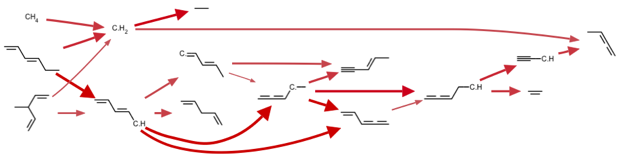
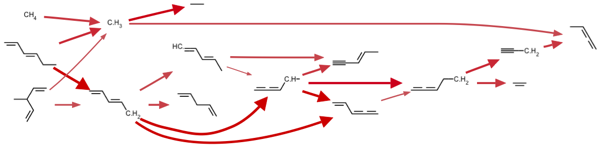
new flux diagram and caption

diff --git a/source/_templates/homepage.html b/source/_templates/homepage.html
@@ -29,7 +29,7 @@ kinetic models composed of elementary chemical reaction steps using a general un
 
 <div class="figure">
 <img id="fluxdiagram" src="{{ pathto('_static/images/HXD13flux-small.png', 1) }}" />
-<p class="caption">Carbon flux diagram for the pyrolysis of 1,3-hexadiene, an example model generated with RMG 3.0</p>
+<p class="caption">Flux diagram for the pyrolysis of 1,3-hexadiene, an example model generated with RMG 3.0, showing the net carbon flux at an instant near the end of the simulation.</p>
 </div>
 
 
